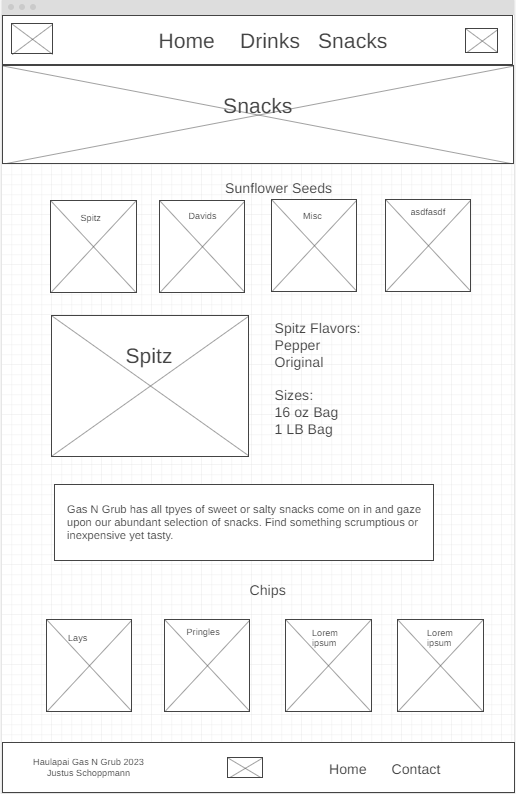
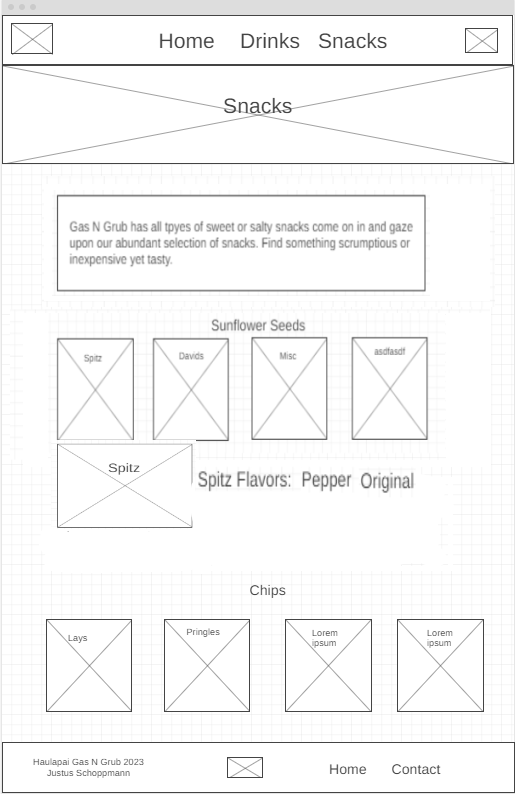
subpage 2 finished

diff --git a/station/snacks.html b/station/snacks.html
@@ -4,130 +4,125 @@
     <meta charset="UTF-8">
     <meta name="viewport" content="width=device-width, initial-scale=1.0">
     <title>Snacks</title>
-    <link rel="stylesheet" href="styles.css">
+    <link rel="stylesheet" href="snacks.css">
 </head>
 <body>
     <header>
         <ul>
-            <div>
-                <img src="logo.png" alt="logo" class="logo">
-            </div>
-            <div>
+            <li><img src="logo.png" alt="logo" class="logo"> </li>
+            <li>
                 <ul>
                     <li><a href="index.html">Home</a></li>
                     <li><a href="drinks.html">Drinks</a></li>
                     <li><a href="snacks.html">Snacks</a></li>
                 </ul>
-            </div>
-            <div>
-                &#128222
-            </div>
+            </li>
+            <li>
+                <a href="tel:928-718-8879"><div class="phone">&#128222;</div></a>
+            </li>
         </ul>
-        <div>
-            <h1>Snacks</h1>
-            <img src="./images/banner.jpg" alt="snacks">
+        <div class="hero-container">
+            <img class='hero' src="./images/banner.jpg" alt="">
+            <h3 class="page-title">Snacks</h3>
         </div>
     </header>
     <main>
-        <section>
-            This section is perfect for helping you plan ahead and easily find your favorite snack. Our snacks menu is thoughtfully curated to cater to a wide range of tastes and preferences. Whether you're a fan of savory treats like chips and pretzels or you have a sweet tooth that craves candy and chocolate, we've got you covered. For those seeking healthier options, we offer a selection of nuts, dried fruits, and protein bars. Need a quick energy boost during your road trip? Grab one of our freshly made sandwiches. Our commitment to variety means you'll always find something to satisfy your cravings.
+        <section class="info">
+            <h2>Info</h2>
+            <p>This section is perfect for helping you plan 
+                ahead and easily find your favorite snack. Our 
+                snacks menu is thoughtfully curated to cater to 
+                a wide range of tastes and preferences. Whether 
+                you're a fan of savory treats like chips and 
+                pretzels or you have a sweet tooth that craves 
+                candy and chocolate, we've got you covered. 
+                For those seeking healthier options, we offer 
+                a selection of nuts, dried fruits, and protein 
+                bars. Need a quick energy boost during your road
+                 trip? Grab one of our freshly made sandwiches. 
+                 Our commitment to variety means you'll always 
+                 find something to satisfy your cravings.</p>
         </section>
         <section>
             <h2>Sunflower Seeds</h2>
-            <div>
-            <div><img src="./images/spitz.jpg" alt="coke"></div>
-            <div><img src="./images/david.jpg" alt=""></div>
+            <div class="snacks">
+                <div><img src="./images/spitz.jpg" alt="spitz" onclick="showSelected('spitz')"></div>
+                <div><img src="./images/david.jpg" alt="davids" onclick="showSelected('davids')"></div>
             </div>
-            <div class="selected">
+            <div id="spitzSelected" class="selected">
                 <img src="images/spitz.jpg" alt="">
                 <ul>
-                    Spitz Flavors
-                    <li>
-                        Cracked Pepper
-                    </li>
-                    <li>
-                        Salted
-                    </li>
-                    <li>
-                        Dill Pickle
-                    </li>
-                    <li>
-                        Bacon
-                    </li>
+                    <li>Flavors</li>
+                    <li>Cracked Pepper<li>
+                    <li> Dill Pickle</li>
+                    <li>Bacon</li>
                 </ul>
             </div>
-            <div class="selected">
+            <div id="davidsSelected" class="selected">
                 <img src="./images/david.jpg" alt="">
                 <ul>
-                    Davids Flavors
-                    <li>
-                        Peppered
-                    </li>
-                    <li>
-                        Chili Lime
-                    </li>
-                    <li>
-                        Sugar Cookie
-                    </li>
+                    <li>Flavors</li>
+                    <li> Peppered</li>
+                    <li>Chili Lime</li>
+                    <li> Sugar Cookie</li>
                 </ul>
             </div>
         </section>
         <section>
             <h2>Chips</h2>
-            <div>
-            <div><img src="./images/lays.jpg" alt="monster"></div>
-            <div><img src="./images/pringles.jpg" alt=""></div>
+            <div class="snacks">
+                <div><img src="./images/lays.jpg" alt="lays" onclick="showSelected('lays')"></div>
+                <div><img src="./images/pringles.jpg" alt="pringles" onclick="showSelected('pringles')"></div>
             </div>
-            <div class="selected">
+            <div id="laysSelected"  class="selected">
                 <img src="images/lays.jpg" alt="">
                 <ul>
-                    Lays Flavors
-                    <li>
-                        Sour Cream & Onion
-                    </li>
-                    <li>
-                        Barbeque
-                    </li>
-                    <li>
-                        Flamin Hot
-                    </li>
-                    <li>
-                        Limon
-                    </li>
+                    <li>Flavors</li>
+                    <li> Sour Cream</li>
+                    <li> BBQ</li>
+                    <li>Flamin Hot</li>
+                    <li>Limon</li>
                 </ul>
             </div>
-            <div class="selected">
+            <div id="pringlesSelected"  class="selected">
                 <img src="./images/pringles.jpg" alt="">
                 <ul>
-                    Pringles Flavors
-                    <li>
-                        Salt and Vinegar
-                    </li>
-                    <li>
-                        BBQ
-                    </li>
-                    <li>
-                        Sour Cream & Onion
-                    </li>
+                    <li>Flavors</li>
+                    <li>Salt and Vinegar</li>
+                    <li> BBQ</li>
+                    <li>Sour Cream & Onion</li>
                 </ul>
             </div>
 
         </section>
     </main>
     <footer>
-        <div>Haulapai Gas N Grub Justus Schoppmann 2023</div>
         <div>
-            <img src="logo.png" alt="">
+          Haulapai Gas N Grub Justus Schoppmann 2023
         </div>
-        <div>
-            <a href="site-plan.html">Site Plan</a>
-            <div>
-                <a href="index.html">Home</a>
-            </div>
-            <div>
-                <a href="tel:928-718-8879">Contact</a>
-            </div>
+        <div class="foot-logo">
+          <img class="footer-logo" src="logo.png" alt="">
         </div>
-    </footer>
+        <div class="footer-links">
+          <a href="site-plan.html">Site Plan</a>
+          <a href="index.html">Home</a>
+          <a href="tel:928-718-8879">Contact</a>
+        </div>
+      </footer>
+        <script>
+            function showSelected(snack) {
+                // Hide all selected divs
+                var selectedDivs = document.querySelectorAll('.selected');
+                selectedDivs.forEach(function(div) {
+                    div.style.display = 'none';
+                });
+    
+                // Show the selected div
+                var selectedDiv = document.getElementById(snack + 'Selected');
+                if (selectedDiv) {
+                    selectedDiv.style.display = 'flex';
+                }
+            }
+        </script>
 </body>
 </html>

diff --git a/station/snacks.css b/station/snacks.css
@@ -94,7 +94,7 @@ a:hover {
     border-radius: 8px; 
     margin: auto; 
     width: 90%;
-
+    border: black 2px solid;
 }
   
 h2{
@@ -115,8 +115,11 @@ p {
     top: 25%;
     left: 50%;
     transform: translate(-50%, -50%);
-    color: black;
+    color: #81290E;
     font-size: 3em;
+    background-color: black;
+    padding: 20px;
+    border-radius: 20%;
 }
 
 .phone{
@@ -231,44 +234,8 @@ footer div{
     background-color: white; 
     color: #000052
   }
-/* .modal {
-    text-align: center;
-    display: none; 
-    position: fixed; 
-    z-index: 1; 
-    padding-top: 100px; 
-    left: 0;
-    top: 0;
-    width: 100%; 
-    height: 100%; 
-    overflow: auto; 
-    background-color: rgb(0,0,0);
-    background-color: rgba(0,0,0,0.4); 
-  }
-  
-  .modal-content {
-    background-color: #fefefe;
-    margin: auto;
-    padding: 20px;
-    border: 1px solid #888;
-    width: 80%;
-  }
-  
-  .close {
-    color: #aaaaaa;
-    float: right;
-    font-size: 28px;
-    font-weight: bold;
-  }
-  
-  .close:hover,
-  .close:focus {
-    color: #000;
-    text-decoration: none;
-    cursor: pointer;
-  } */
 
-  .sodas {
+  .snacks {
     display: flex;
     justify-content: space-between;
     width: 80%;
@@ -278,7 +245,7 @@ footer div{
     border-radius: 10px 10px 0px 0px;
 }
 
-.sodas div {
+.snacks div {
     flex: 1;
     margin-right: 0; 
     overflow: hidden; 
@@ -287,7 +254,7 @@ footer div{
     justify-content: center;
 }
 
-.sodas div img {
+.snacks div img {
     width: 100%; 
     height: 100%; 
     object-fit: contain; 
